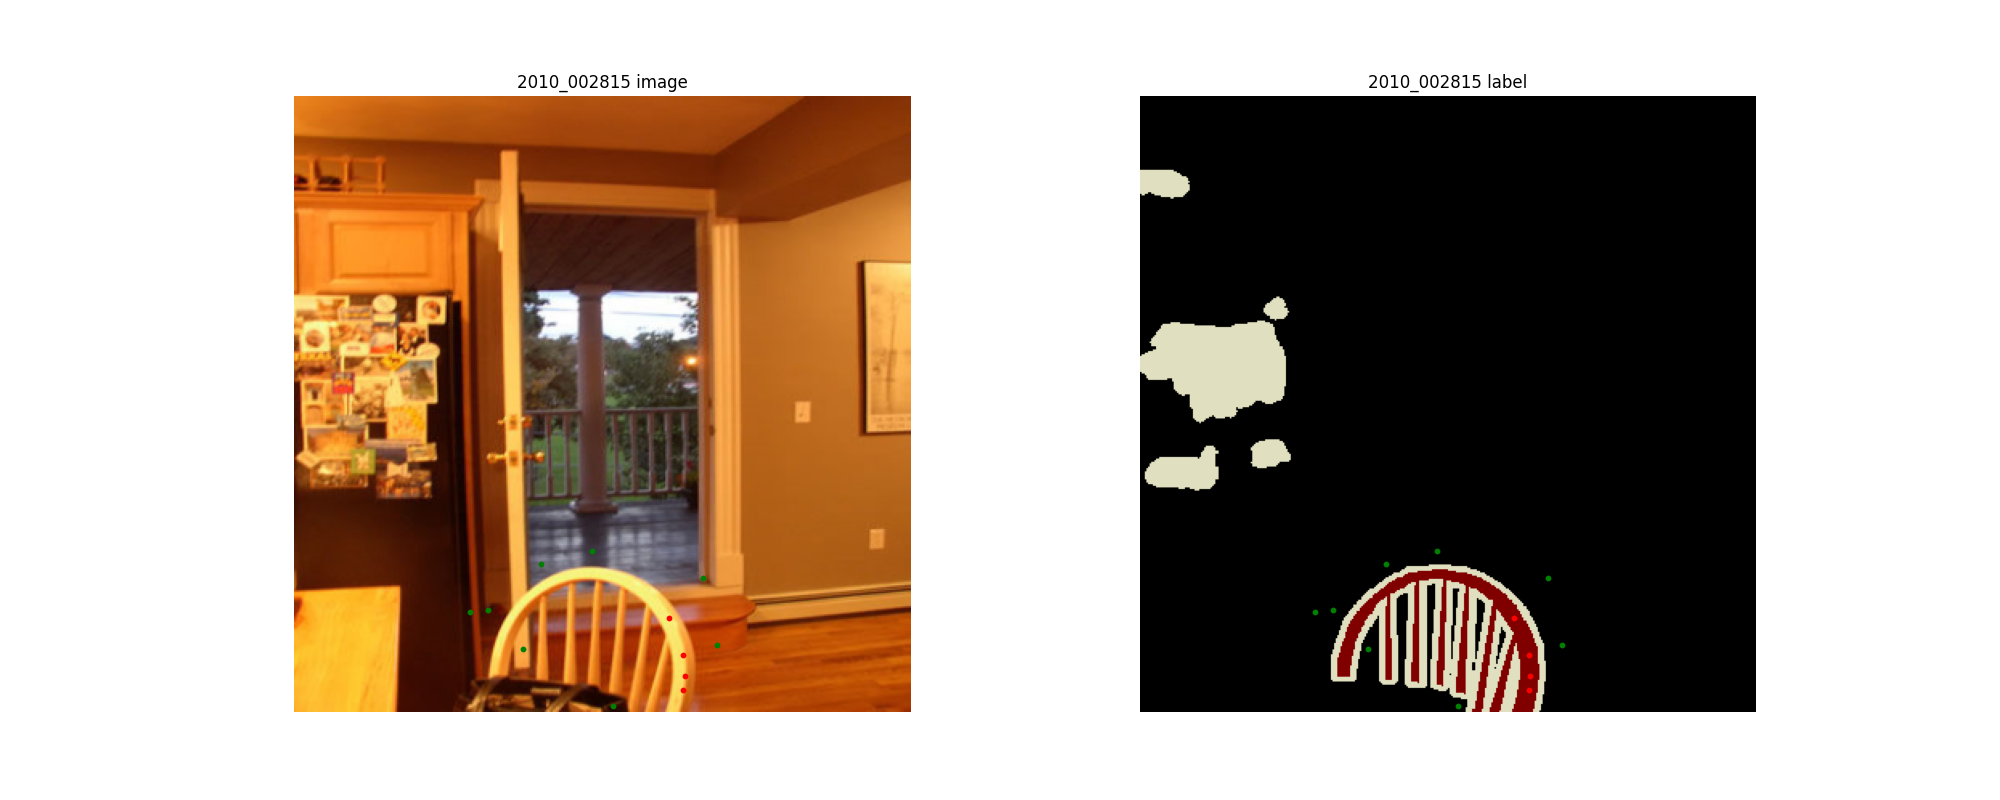
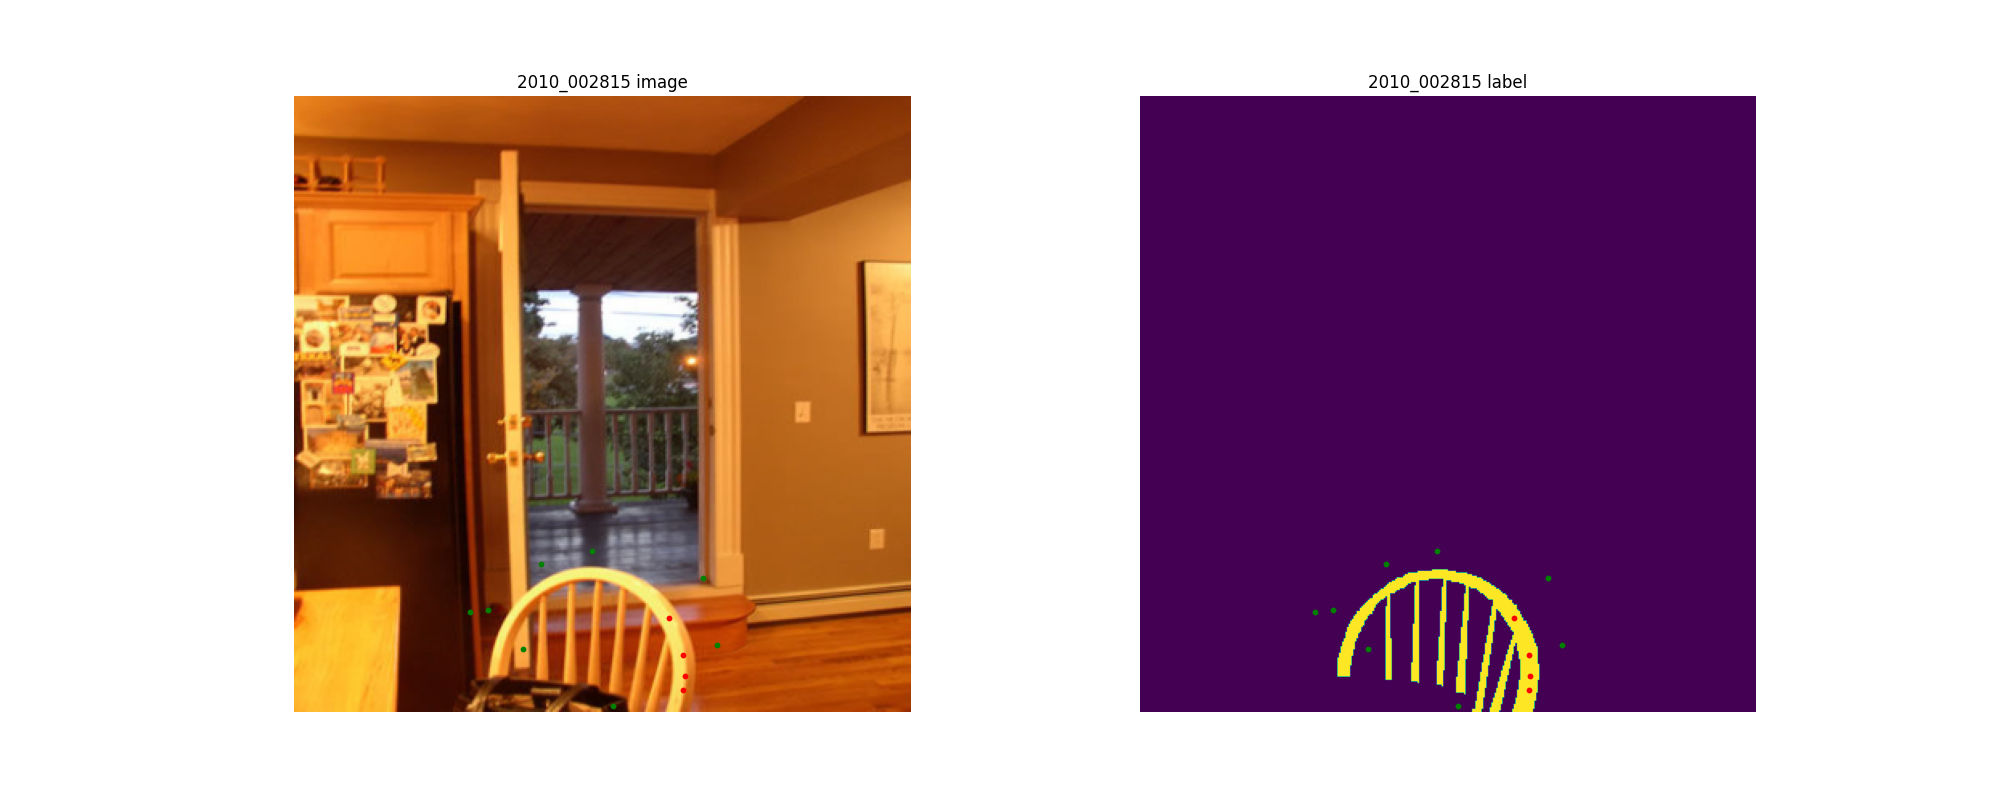
dataset

Changed region(s): [[0.558, 0.0938, 0.899, 0.9062]]

diff --git a/datasets/voc_with_interactives.py b/datasets/voc_with_interactives.py
@@ -49,15 +49,18 @@ class VOCSegmentationWithInteractive():
 
     def __getitem__(self, index):
         if self.main_data == 'image':
-            fg_interactive, bg_interactive, image_name = self.__get_item_by_image_names__(index)
+            fg_interactive, bg_interactive, image_name, object_id = self.__get_item_by_image_names__(index)
         else: # main_data == 'interactives':
-            fg_interactive, bg_interactive, image_name = self.__get_item_by_interactives__(index)
+            fg_interactive, bg_interactive, image_name, object_id = self.__get_item_by_interactives__(index)
 
         image_path = os.path.join(self.image_dir, image_name + ".jpg")
         label_path = os.path.join(self.mask_dir, image_name + ".png")
 
         image = Image.open(image_path).convert('RGB')
-        label = Image.open(label_path)
+        label_np = np.array(Image.open(label_path))
+
+        label = np.uint8(label_np == object_id)
+        label = Image.fromarray(label)
 
         if self.transforms is not None:
             image, label, fg_interactive, bg_interactive = self.transforms(image, label, fg_interactive, bg_interactive)
@@ -73,9 +76,10 @@ class VOCSegmentationWithInteractive():
         bg_interactive = Image.open(cur_bg_interactive_path)
 
         file_name = os.path.split(cur_fg_interactive_path)[1]
-        image_name = '_'.join(file_name.split('_')[:2])
+        image_name = '_'.join(file_name.split('_')[:2]) # year_number
+        object_id = int(file_name.split('_')[2])
 
-        return fg_interactive, bg_interactive, image_name
+        return fg_interactive, bg_interactive, image_name, object_id
 
     def __get_item_by_image_names__(self, index):
         image_name = self.file_names[index]
@@ -89,7 +93,10 @@ class VOCSegmentationWithInteractive():
         fg_interactive = Image.open(cur_fg_interactive_path)
         bg_interactive = Image.open(cur_bg_interactive_path)
 
-        return fg_interactive, bg_interactive, image_name
+        file_name = os.path.split(cur_fg_interactive_path)[1]
+        object_id = int(file_name.split('_')[2])
+
+        return fg_interactive, bg_interactive, image_name, object_id
 
     def __len__(self):
         if self.main_data == 'image':

diff --git a/datasets/voc_random_sample.py b/datasets/voc_random_sample.py
@@ -44,17 +44,19 @@ class VOCSegmentationRandomSample():
         label_path = os.path.join(self.mask_dir, image_name + ".png")
 
         image = Image.open(image_path).convert('RGB')
-        label = Image.open(label_path)
+        label_np = np.array(Image.open(label_path))
 
-        ids = list(np.unique(np.array(label)))
+        ids = list(np.unique(label_np))
         if 0 in ids:
             ids.remove(0)
         if 255 in ids:
             ids.remove(255)
         
         object_id = random.choice(ids)
-        interactive_map = sample_points_for_singal_object(np.array(label), object_id)
-
+        interactive_map = sample_points_for_singal_object(label_np, object_id)
+        
+        label = np.uint8(label_np == object_id)
+        label = Image.fromarray(label)
         fg_interactive = Image.fromarray(interactive_map[0])
         bg_interactive = Image.fromarray(interactive_map[1])
 
@@ -62,7 +64,7 @@ class VOCSegmentationRandomSample():
             image, label, fg_interactive, bg_interactive = self.transforms(image, label, fg_interactive, bg_interactive)
             # image = torchvision.transforms.Normalize((0.485, 0.456, 0.406), (0.229, 0.224, 0.225))(image)
 
-        return image, label, fg_interactive, bg_interactive, image_name, object_id
+        return image, label, fg_interactive, bg_interactive, image_name
 
     def __len__(self):
         return len(self.file_names)

diff --git a/code_test.py b/code_test.py
@@ -83,7 +83,7 @@ def test_VOCSegmentationRandomSample(root_dir, image_set='train'):
         T.Resize((384, 384))
     ])
     dataset = VOCSegmentationRandomSample(root_dir, image_set=image_set, transforms=transforms)
-    image, label, fg_interactive, bg_interactive, image_name, object_id = dataset[0]
+    image, label, fg_interactive, bg_interactive, image_name = dataset[0]
     
     plt.figure(figsize=(20, 8))
     
@@ -115,7 +115,7 @@ def test_VOCSegmentationRandomSample(root_dir, image_set='train'):
     print(image_name, y, x)
     plt.scatter(x, y, s=10, c='g')
 
-    plt.savefig(f"./images/test_VOCSegmentationRandomSample_{image_set}_{object_id}_{image_name}.png")
+    plt.savefig(f"./images/test_VOCSegmentationRandomSample_{image_set}_{image_name}.png")
     # plt.show()
 
 
@@ -144,4 +144,4 @@ def test_VOCSegmentationRandomSample(root_dir, image_set='train'):
 # dataset = VOCSegmentationWithInteractive(root_dir, interactives_root_dir, image_set='train', main_data='image')
 # image, label, fg_interactive, bg_interactive, image_name = dataset[0]
 # dataset = VOCSegmentationRandomSample(root_dir, image_set='train')
-# image, label, fg_interactive, bg_interactive, image_name, object_id = dataset[0]
+# image, label, fg_interactive, bg_interactive, image_name = dataset[0]

diff --git a/README.md b/README.md
@@ -44,15 +44,15 @@
 
 使用随机采样策略，分别对VOC2012训练集、验证集（[VOC2012官方下载地址](http://host.robots.ox.ac.uk/pascal/VOC/voc2012/)，[镜像下载地址](https://pjreddie.com/projects/pascal-voc-dataset-mirror/)）中的每幅图片中的每个对象生成N对前背景交互，前背景交互以图像的形式存储（交互打点的位置值为1，其他位置值为0）。见代码[generate_data_pairs.py](./generate_data_pairs.py)。
 
-- VOC2012训练集（1464张图像，3507个对象）：每个对象生成15对前背景交互，用于训练。（共3507*15*2=105210张交互图像）
+- VOC2012训练集（1464张图像，3507个对象）：每个对象生成15对前背景交互，用于训练。（共3507\*15\*2=105210张交互图像）
 - VOC2012验证集（1449张图像，3427个对象）：每个对象生成1对前背景交互，用于训练时，进行验证。（共3427*2=6854张交互图像）
 
 ### 4.2 加载数据集
 
 数据集以以下三种形式进行加载，在实际实验中，使用第**2**种，数据加载更加全面，另外需要注意的是第3种**无需提前生成数据对**，而第1种、第2种需要通过[generate_data_pairs.py](./generate_data_pairs.py)提前生成数据对。
 
-1. 加载VOC2012数据集中的图像，随机在15对前背景交互中加载一对，见代码[datasets/voc_with_interactives.py](./datasets/voc_with_interactives.py)（将`main_data`设置为`'image'`）。（训练集一轮1464个数据对、验证集一轮1449个数据对）
-2. 加载生成的前景交互，再取VOC2012数据集中对应的图像以及对应的背景交互，见代码[datasets/voc_with_interactives.py](./datasets/voc_with_interactives.py)（将`main_data`设置为`'interactive'`）。（训练集一轮3507*15=52605、验证集3427个数据对）
+1. 加载VOC2012数据集中的图像，随机在15对前背景交互中加载一对，见代码[datasets/voc_with_interactives.py](./datasets/voc_with_interactives.py)（将`VOCSegmentationWithInteractive`类`main_data`参数设置为`'image'`）。（训练集一轮1464个数据对、验证集一轮1449个数据对）
+2. 加载生成的前景交互，再取VOC2012数据集中对应的图像以及对应的背景交互，见代码[datasets/voc_with_interactives.py](./datasets/voc_with_interactives.py)（将`VOCSegmentationWithInteractive`类`main_data`参数设置为`'interactive'`）。（训练集一轮3507*15=52605、验证集3427个数据对）
 3. 加载VOC2012数据集中的图像，随机采样生成一对前背景交互，[datasets/voc_random_sample.py](./datasets/voc_random_sample.py)（训练集一轮1464个数据对、验证集一轮1449个数据对）
 
 ## 5. 训练
